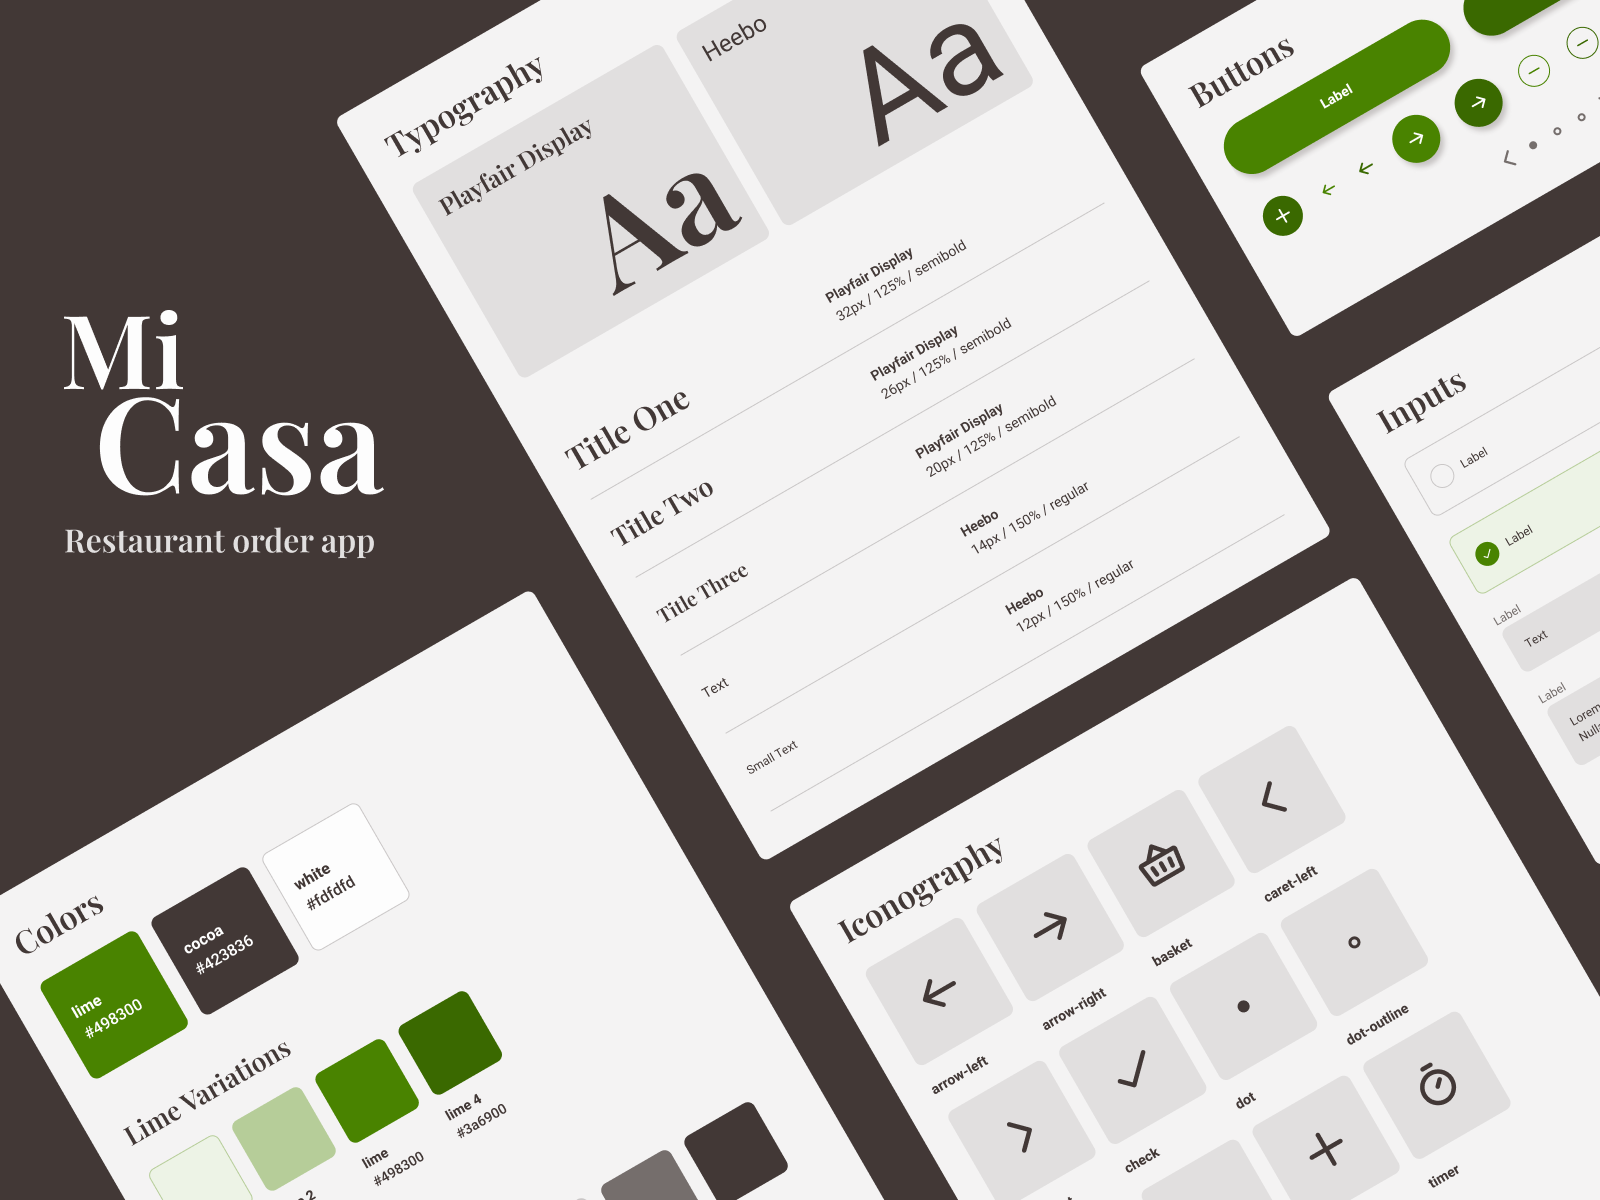
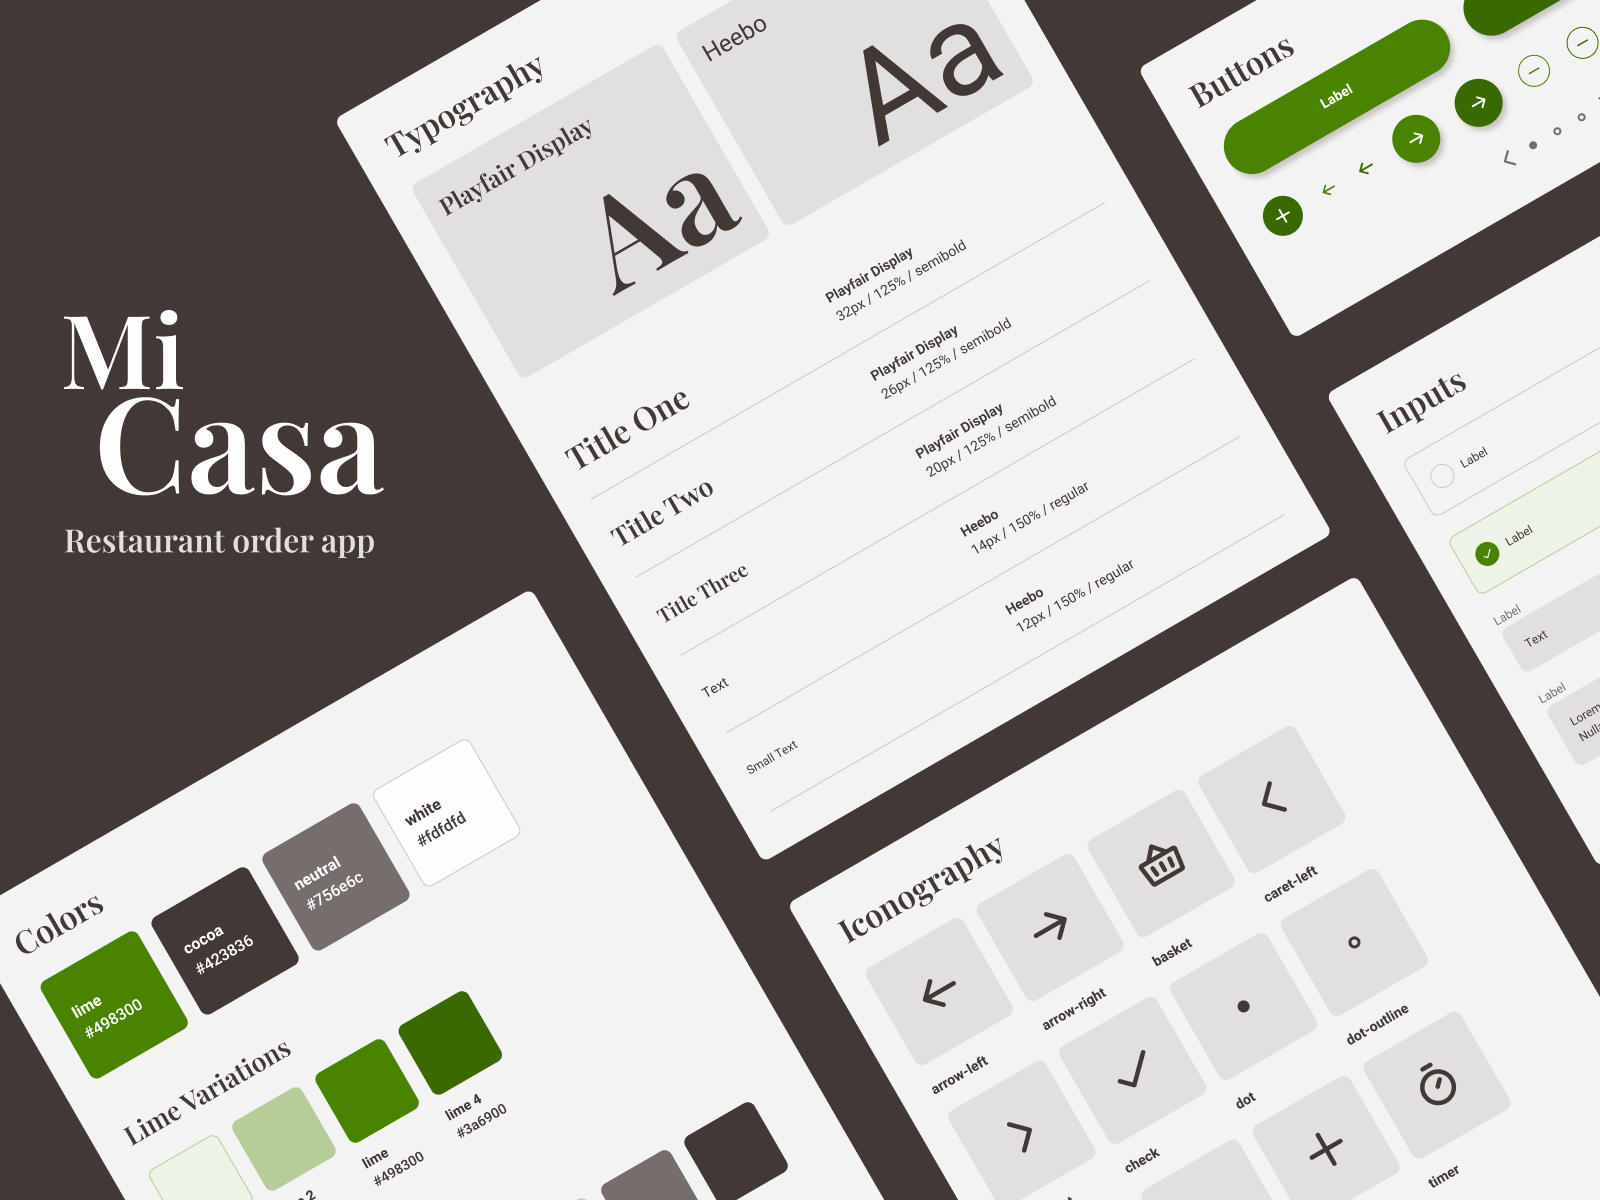
changed file structure, updated screenshot

Changed region(s): [[0.1562, 0.6783, 0.2812, 0.8017]]

diff --git a/index.html b/index.html
@@ -13,17 +13,15 @@
         <img src="images/logos/mi-casa-logo.svg" alt="Mi Casa">
       </a>
       <h3 class="title mt-1">Design System</h2>
-      <hr>
 
       <h4 class="subtitle mt-2">Basics</h2>
       <a href="colors.html">Colors</a>
       <a href="fonts.html">Fonts</a>
-      <hr>
 
-      <h4 class="subtitle mt-2">Blocks</h4>
+      <h4 class="subtitle mt-2">Components</h4>
       <a href="cards.html">Cards</a>
       <a href="forms.html">Forms</a>
-      <a href="tooltips.html">Tooltips</a>
+      <a href="tags.html">Tags</a>
     </nav>
 
     <main>
@@ -33,7 +31,7 @@
       
       <a href="colors.html">
         <h3 class="subtitle mb-15">Colors</h3>
-        <div class="flex gap-1 items-center justify-start">
+        <div class="flex flex-wrap gap-1 items-center justify-start">
           <div class="swatch primary"></div>
           <div class="swatch black"></div>
           <div class="swatch neutral"></div>
@@ -78,12 +76,12 @@
       </div>
       <hr>
       
-      <a href="tooltips.html">
-        <h3 class="subtitle mb-15">Tooltips &#8594;</h3>
+      <a href="tags.html">
+        <h3 class="subtitle mb-15">Tags &#8594;</h3>
       </a>
       <div>
         Seitan gluten-free YOLO put a bird on it DIY.
-        <span class="tooltip">Shaman hexagon twee iceland cornhole fashion axe</span>
+        <span class="tag">Shaman hexagon twee iceland cornhole fashion axe</span>
       </div>
     </main>
   </body>

diff --git a/fonts.html b/fonts.html
@@ -13,17 +13,15 @@
         <img src="images/logos/mi-casa-logo.svg" alt="Mi Casa">
       </a>
       <h3 class="title mt-1">Design System</h2>
-      <hr>
 
       <h4 class="subtitle mt-2">Basics</h2>
       <a href="colors.html">Colors</a>
       <a class="active" href="fonts.html">Fonts</a>
-      <hr>
 
-      <h4 class="subtitle mt-2">Blocks</h4>
+      <h4 class="subtitle mt-2">Components</h4>
       <a href="cards.html">Cards</a>
       <a href="forms.html">Forms</a>
-      <a href="tooltips.html">Tooltips</a>
+      <a href="tags.html">Tags</a>
     </nav>
 
     <main>
@@ -38,17 +36,17 @@
 
       <h1>
         Title One
-        <span class="tooltip">2rem = 32px</span>
+        <span class="tag">2rem = 32px</span>
       </h1>
 
       <h2>
         Title Two
-        <span class="tooltip">1.625rem = 26px</span>
+        <span class="tag">1.625rem = 26px</span>
       </h2>
 
       <h3>
         Title Three
-        <span class="tooltip">1.25rem = 20px</span>
+        <span class="tag">1.25rem = 20px</span>
       </h3>
       <hr>
 

diff --git a/tags.html b/tags.html
@@ -13,25 +13,23 @@
         <img src="images/logos/mi-casa-logo.svg" alt="Mi Casa">
       </a>
       <h3 class="title mt-1">Design System</h2>
-      <hr>
 
       <h4 class="subtitle mt-2">Basics</h2>
       <a href="colors.html">Colors</a>
       <a href="fonts.html">Fonts</a>
-      <hr>
 
-      <h4 class="subtitle mt-2">Blocks</h4>
+      <h4 class="subtitle mt-2">Components</h4>
       <a href="cards.html">Cards</a>
       <a href="forms.html">Forms</a>
-      <a class="active" href="tooltips.html">Tooltips</a>
+      <a class="active" href="tags.html">Tags</a>
     </nav>
 
     <main>
-      <h2 class="title mb-15">Tooltips</h2>
+      <h2 class="title mb-15">Tags</h2>
 
       <div>
         Seitan gluten-free YOLO put a bird on it DIY.
-        <span class="tooltip">Shaman hexagon twee iceland cornhole fashion axe</span>
+        <span class="tag">Shaman hexagon twee iceland cornhole fashion axe</span>
       </div>
       <hr>
 

diff --git a/cards.html b/cards.html
@@ -13,17 +13,15 @@
         <img src="images/logos/mi-casa-logo.svg" alt="Mi Casa">
       </a>
       <h3 class="title mt-1">Design System</h2>
-      <hr>
 
       <h4 class="subtitle mt-2">Basics</h2>
       <a href="colors.html">Colors</a>
       <a href="fonts.html">Fonts</a>
-      <hr>
 
-      <h4 class="subtitle mt-2">Blocks</h4>
+      <h4 class="subtitle mt-2">Components</h4>
       <a class="active" href="cards.html">Cards</a>
       <a href="forms.html">Forms</a>
-      <a href="tooltips.html">Tooltips</a>
+      <a href="tags.html">Tags</a>
     </nav>
 
     <main>

diff --git a/colors.html b/colors.html
@@ -13,17 +13,15 @@
         <img src="images/logos/mi-casa-logo.svg" alt="Mi Casa">
       </a>
       <h3 class="title mt-1">Design System</h2>
-      <hr>
 
       <h4 class="subtitle mt-2">Basics</h2>
       <a class="active" href="colors.html">Colors</a>
       <a href="fonts.html">Fonts</a>
-      <hr>
 
-      <h4 class="subtitle mt-2">Blocks</h4>
+      <h4 class="subtitle mt-2">Components</h4>
       <a href="cards.html">Cards</a>
       <a href="forms.html">Forms</a>
-      <a href="tooltips.html">Tooltips</a>
+      <a href="tags.html">Tags</a>
     </nav>
 
     <main>

diff --git a/forms.html b/forms.html
@@ -13,17 +13,15 @@
         <img src="images/logos/mi-casa-logo.svg" alt="Mi Casa">
       </a>
       <h3 class="title mt-1">Design System</h2>
-      <hr>
 
       <h4 class="subtitle mt-2">Basics</h2>
       <a href="colors.html">Colors</a>
       <a href="fonts.html">Fonts</a>
-      <hr>
 
-      <h4 class="subtitle mt-2">Blocks</h4>
+      <h4 class="subtitle mt-2">Components</h4>
       <a href="cards.html">Cards</a>
       <a class="active" href="forms.html">Forms</a>
-      <a href="tooltips.html">Tooltips</a>
+      <a href="tags.html">Tags</a>
     </nav>
 
     <main>

diff --git a/styles/index.scss b/styles/index.scss
@@ -4,7 +4,7 @@
 @import 'basics/fonts';
 @import 'basics/global';
 @import 'basics/utilities';
-@import 'blocks/cards';
-@import 'blocks/forms';
-@import 'blocks/tooltips';
+@import 'components/cards';
+@import 'components/forms';
+@import 'components/tags';
 @import 'pages/system';

diff --git a/styles/components/_tags.scss b/styles/components/_tags.scss
@@ -1,4 +1,4 @@
-.tooltip {
+.tag {
   @include background-color(color(neutral, 3), color(black));
   border-radius: 1.5rem;
   display: inline-block;

diff --git a/styles/index.css b/styles/index.css
@@ -699,7 +699,7 @@ hr {
   width: 100%;
 }
 
-.tooltip {
+.tag {
   background: #cac7c7;
   color: #423836;
   border-radius: 1.5rem;
